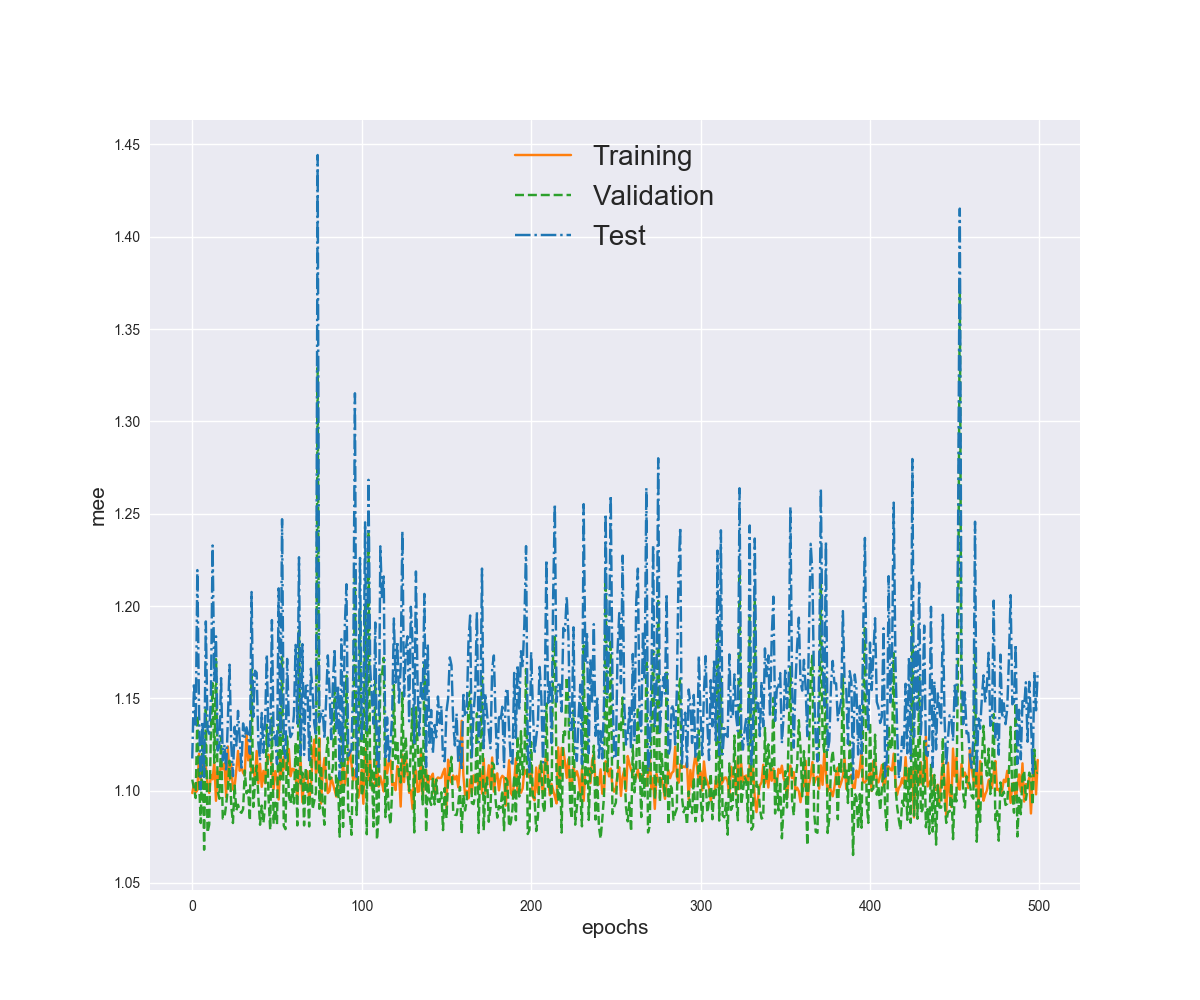
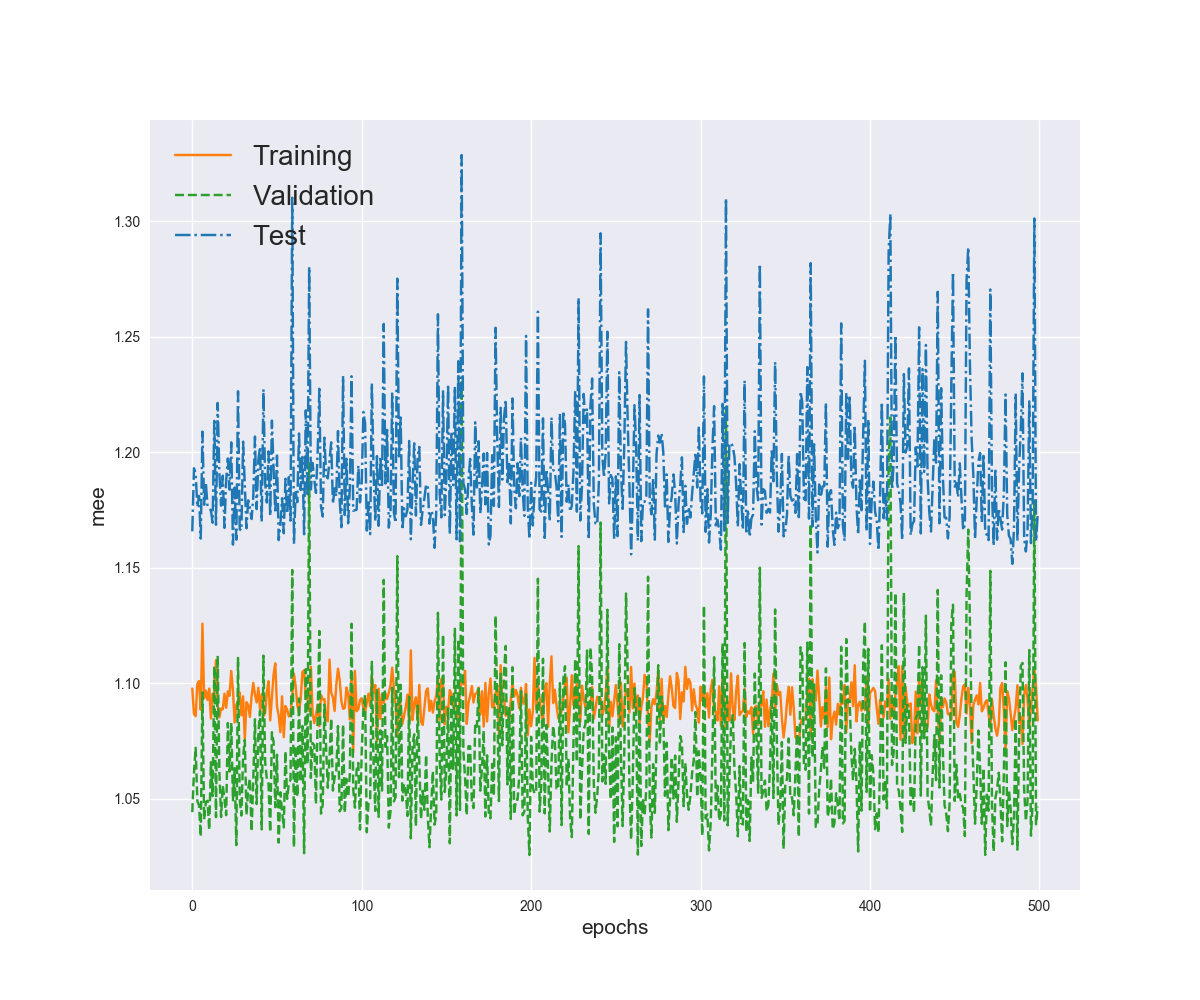
pull

diff --git a/blind_test.py b/blind_test.py
@@ -1,0 +1,32 @@
+from neural_network import NeuralNetwork
+from optimizers import *
+from kernel_initialization import *
+from functions_factory import *
+from parser import Cup_parser
+from utility import *
+
+
+DIR_CUP = './data/cup/'
+PATH_TR = 'ML-CUP19-TR.csv'
+PATH_TS = 'ML-CUP19-TS.csv'
+INPUT_DIM = 20
+OUTPUT_DIM = 2
+
+results=list()
+
+parser = Cup_parser(DIR_CUP + PATH_TR)
+data, targets = parser.parse(INPUT_DIM, OUTPUT_DIM)
+X_train, Y_train,X_val,Y_val, X_test, Y_test = train_val_test_split(data, targets,val_size=0.25, test_size=0.25, shuffle=True)
+
+
+model_1 = NeuralNetwork('mse', 'mee')
+model_1.add_layer(30, input_dim=20, activation='sigm', kernel_initialization=RandomInitialization())
+model_1.add_layer(40, activation="tanh", kernel_initialization=RandomInitialization())
+model_1.add_layer(2, activation='linear', kernel_initialization=RandomInitialization())
+optimizer = RMSprop(lr=0.001, moving_average=0.099, l2=0.0005)
+model_1.compile(optimizer=optimizer)
+model_1.fit(X_train, Y_train, early_stopping=None,epochs=500,
+                  batch_size=32, vl=(X_val,Y_val), ts=(X_test,Y_test), verbose=False, tol=None, shuffle=True)
+
+val = model_1.history['val_mee'][-1]
+results.append((val, ['hyperparameters'], model_1))
